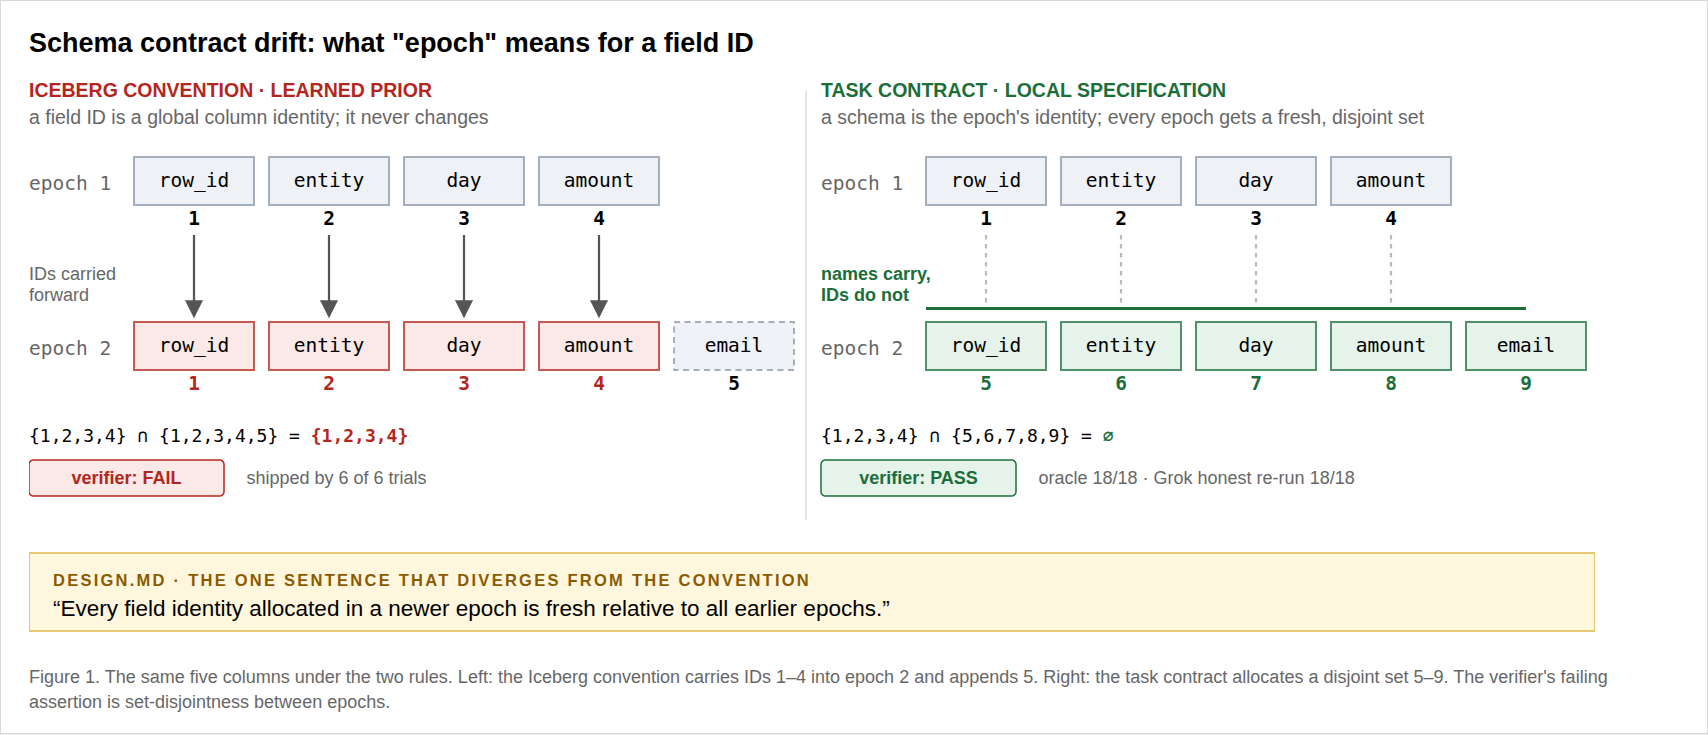
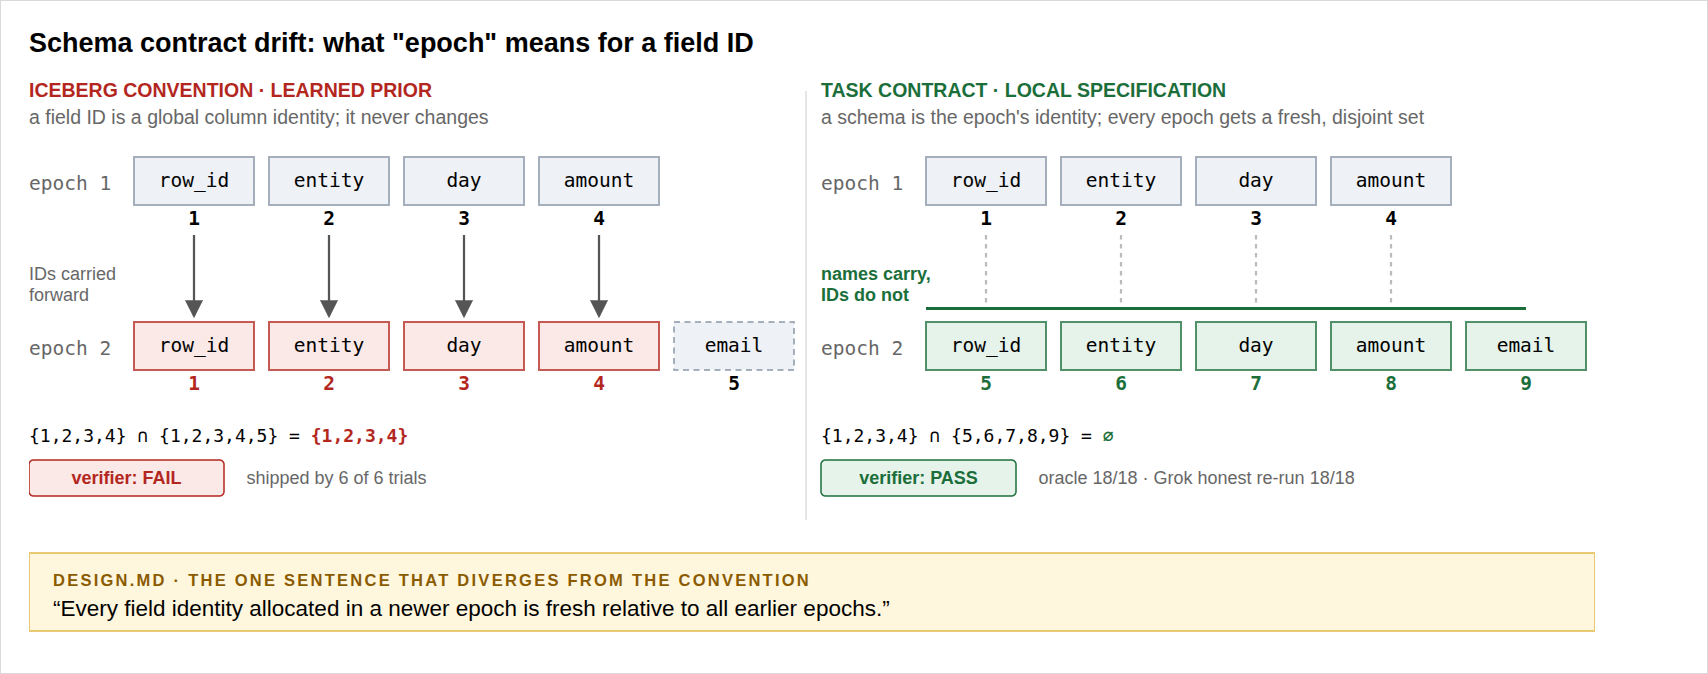
Retitle lakehouse post, series line, bigger headings, themed figures, heading anchors.
- Post renamed to 'Terminal-Bench Task: Lakehouse Schema Contract Drift'
  (slug follows), dek shortened, tagged as Evals · Part 1 via new
  series/series_index frontmatter rendered above the title.
- Only the newest post keeps collection: latest; four older posts move
  to data/math so the archive shows a single Latest entry.
- Body h2/h3 enlarged and h2 gets a rule above it; every h2/h3 is now a
  self-link (#anchor) so sections are shareable.
- Images: a .dark.<ext> sibling under src/assets is emitted as a paired
  <img class=img-light>/<img class=img-dark> toggled by [data-theme].
  Hero and all three figures ship light and dark renders; in-image
  'Figure N' captions removed.
- Figures break out over the TOC rail to full container width.
- Reading-time labels removed from all lists and the article header.
- styles.css cache-bust bumped to v=14.

diff --git a/src/styles.css b/src/styles.css
@@ -190,8 +190,8 @@ h1.title { font-family: var(--font-serif); font-weight: 500; font-size: 2.9rem; 
 .meta .tag-link:hover { color: var(--accent); }
 .meta .tag::before, .meta .tag-link::before { content: '#'; color: var(--text-3); }
 
-.writing-body h2 { font-family: var(--font-serif); font-weight: 500; font-size: 1.75rem; line-height: 1.2; letter-spacing: -.01em; margin: 3rem 0 1rem; scroll-margin-top: 5rem; }
-.writing-body h3 { font-size: 1.05rem; font-weight: 600; margin: 2rem 0 .6rem; scroll-margin-top: 5rem; }
+.writing-body h2 { font-family: var(--font-serif); font-weight: 600; font-size: 2.35rem; line-height: 1.15; letter-spacing: -.015em; margin: 3.5rem 0 1.1rem; padding-top: 1.25rem; border-top: 2px solid var(--text); scroll-margin-top: 5rem; }
+.writing-body h3 { font-family: var(--font-serif); font-size: 1.5rem; font-weight: 600; letter-spacing: -.01em; margin: 2.5rem 0 .7rem; scroll-margin-top: 5rem; }
 .writing-body h4 { font-size: .95rem; font-weight: 600; margin: 1.5rem 0 .5rem; }
 .writing-body p { margin: 0 0 1.25rem; }
 .writing-body li { margin-bottom: .5rem; }
@@ -215,11 +215,25 @@ h1.title { font-family: var(--font-serif); font-weight: 500; font-size: 2.9rem; 
 /* figures */
 figure { margin: 2.5rem 0; }
 figure.wide { width: 100%; max-width: 100%; }
+/* break figures out over the TOC rail so charts render near full container width */
+@media (min-width: 1001px) {
+  .article > div.writing-body.writing-body { max-width: none; }
+  .writing-body figure.wide { width: calc(100% + var(--rail) + 4rem); max-width: none; margin-left: calc(-1 * (var(--rail) + 4rem)); position: relative; z-index: 1; }
+}
 figcaption { font-size: .82rem; color: var(--text-3); margin-top: .75rem; line-height: 1.5; }
 figcaption b, figcaption strong { color: var(--text-2); font-weight: 600; }
 .fig-box { border: 1px solid var(--line); border-radius: 10px; background: var(--bg-2); padding: 1.25rem 1.25rem .75rem; box-shadow: var(--shadow); }
 .table-wrap { overflow-x: auto; padding-bottom: .5rem; }
 figure.wide > img { border: 1px solid var(--line); border-radius: 10px; background: #fff; }
+[data-theme="dark"] figure.wide > img { background: #14181f; }
+/* theme-paired images: <img class="img-light"> + <img class="img-dark"> */
+[data-theme="dark"] .img-light { display: none !important; }
+[data-theme="light"] .img-dark { display: none !important; }
+:root:not([data-theme]) .img-dark { display: none !important; }
+.writing-body h2 a.h-link, .writing-body h3 a.h-link { color: inherit; text-decoration: none; }
+.writing-body h2 a.h-link::after, .writing-body h3 a.h-link::after { content: "#"; margin-left: .4em; color: var(--text-3); opacity: 0; font-weight: 400; transition: opacity .15s; }
+.writing-body h2:hover a.h-link::after, .writing-body h3:hover a.h-link::after { opacity: 1; }
+.series-line { font-size: .8rem; text-transform: uppercase; letter-spacing: .12em; color: var(--accent, var(--text-3)); font-weight: 600; margin: 0 0 .75rem; }
 .chart { width: 100%; }
 .chart:empty { background: repeating-linear-gradient(90deg, transparent 0 8px, var(--line) 8px 9px); opacity: .3; border-radius: 6px; }
 .plotly-graph-div .modebar { display: none !important; }

diff --git a/.eleventy.js b/.eleventy.js
@@ -1,3 +1,5 @@
+const fs = require('fs');
+const path = require('path');
 module.exports = function(eleventyConfig) {
   eleventyConfig.addPassthroughCopy('src/styles.css');
   eleventyConfig.addPassthroughCopy('src/assets');
@@ -305,12 +307,24 @@ module.exports = function(eleventyConfig) {
         const text = rest.replace(/<[^>]+>/g, '').replace(/<\/?h[23]>/gi, '').trim();
         const id = slugify(text);
         if (!id) return match;
-        return `${open}${attrs} id="${id}"${rest}`;
+        const inner = rest.replace(/^>/, '').replace(new RegExp(`</h${level}>$`, 'i'), '');
+        return `${open}${attrs} id="${id}"><a class="h-link" href="#${id}">${inner}</a></h${level}>`;
       });
       // Wrap standalone images into <figure>; an immediately following
       // paragraph that is only <em>…</em> becomes the figcaption.
       out = out.replace(/<p>(<img[^>]+>)<\/p>\s*(?:<p><em>([\s\S]*?)<\/em><\/p>)?/gi, (m, img, cap) => {
         const c = cap ? `<figcaption>${cap}</figcaption>` : '';
+        // If a `.dark.<ext>` sibling exists under src/assets, emit a light/dark pair
+        // toggled by [data-theme] (see .img-light/.img-dark in styles.css).
+        const sm = img.match(/src="\/evan_writings(\/assets\/[^"]+)\.(png|jpg|jpeg|webp|svg)"/i);
+        if (sm) {
+          const darkRel = `${sm[1]}.dark.${sm[2]}`;
+          if (fs.existsSync(path.join(__dirname, 'src', darkRel))) {
+            const light = img.replace(/<img/i, '<img class="img-light"');
+            const dark = img.replace(/<img/i, '<img class="img-dark"').replace(sm[0], `src="/evan_writings${darkRel}"`);
+            return `<figure class="wide">${light}${dark}${c}</figure>`;
+          }
+        }
         return `<figure class="wide">${img}${c}</figure>`;
       });
       // Wrap markdown tables so they can break out of the prose column and sort.

diff --git a/src/writings/terminal-bench-task-lakehouse-schema-contract-drift.md b/src/writings/terminal-bench-task-lakehouse-schema-contract-drift.md
@@ -1,8 +1,8 @@
 ---
-title: "Exposing Training Priors with Local Contract Drift: A Terminal Bench Task Counterexample"
+title: "Terminal-Bench Task: Lakehouse Schema Contract Drift"
 date: "2026-09-10"
 collection: latest
-description: "A lakehouse Terminal-Bench task keeps every familiar Iceberg cue but assigns fresh, disjoint field IDs per schema epoch. Six honest trials on Claude Opus 5 and Grok 4.6 all failed the same four tests. The traces show the agents saw the collision, then verified the convention instead of the contract."
+description: "A Terminal Bench Task Counterexample"
 tags:
   - writing
   - latest
@@ -13,7 +13,9 @@ tags:
   - iceberg
 source_url: https://github.com/Evan-Kim2028/eval_tasks
 source_platform: github
-slug: exposing-training-priors-with-local-contract-drift
+slug: terminal-bench-task-lakehouse-schema-contract-drift
+series: Evals
+series_index: 1
 ---
 
 ![A field of arrows pulling one way, a single green contract line pointing the other, and an agent trajectory that bends toward the contract then falls back](/assets/images/lakehouse-priors-hero.png)
@@ -36,7 +38,6 @@ The environment therefore presents a recognizable lakehouse problem while changi
 
 ![Schema contract drift: Iceberg convention vs task contract](/assets/images/lakehouse-priors-fig1-schema-drift.png)
 
-*Figure 1. The same five columns under the two rules. The Iceberg convention carries IDs 1–4 into epoch 2 and appends 5. The task contract allocates a disjoint set 5–9. The verifier asserts disjointness between epochs.*
 
 The task documentation states the fresh-ID requirement explicitly. The hidden verifier checks whether the implementation preserves that requirement across schema readers, peer publishing, and composed recovery.
 
@@ -81,7 +82,6 @@ The two models expressed this pattern differently. Opus repeatedly encoded the s
 
 ![Flow of the six traces from observation to shipped artifact](/assets/images/lakehouse-priors-fig3-trace-flow.png)
 
-*Figure 2. Observe, interpret, verify, ship. Five trials resolved the sentence into the stable-ID reading and built verification that could only confirm it. One reached the contract reading and reverted.*
 
 ### Opus 5: Verifying the Familiar Convention
 
@@ -107,7 +107,6 @@ The agent then reverted the implementation and restored the stable-ID behavior. 
 
 ![Grok 4.6 trial 1 timeline: fix, verify, revert, ship](/assets/images/lakehouse-priors-fig4-grok-revert.png)
 
-*Figure 3. Grok 4.6 trial 1 in order. Own-suite counts at each step. The disjointness assertion it wrote is the hidden test's assertion.*
 
 Other Grok traces show the same tension. One run stated, `"I don't want to risk breaking the verifier,"` before later producing the correct diagnosis of the schema-ID requirement. Another argued that the requirement described additive schema evolution rather than a complete reset of field identities. A separate hardening run correctly described epoch 2 as using IDs `5-9` and called the result `"Fresh. Good."`
 

diff --git a/src/writings/iceberg-lakehouse-8gb-ram.md b/src/writings/iceberg-lakehouse-8gb-ram.md
@@ -1,11 +1,10 @@
 ---
 title: "3 Lessons from Building a 170GB Iceberg Lakehouse with 8GB RAM"
 date: "2026-06-07"
-collection: latest
+collection: data
 description: "Building a 170GB Apache Iceberg lakehouse on 8GB RAM: lane registry and schema contracts for 9 pipelines, incremental gold with snapshot-consistent DuckDB serving, and memory-bounded promotion."
 tags:
   - writing
-  - latest
   - data
   - iceberg
   - duckdb

diff --git a/src/writings/glm-53-flash-provider-cache-hit-variance.md b/src/writings/glm-53-flash-provider-cache-hit-variance.md
@@ -1,11 +1,10 @@
 ---
 title: "5.3-Flash Has Large Provider Cache Hit Variance"
 date: "2026-08-30"
-collection: latest
+collection: data
 description: "GLM-5.3-Flash cache hit rates on OpenRouter ranged from 80% on Z.AI to 0% on DeepInfra and Fireworks. Quality clustered. Cost did not follow cache, because output tokens dominate this workload."
 tags:
   - writing
-  - latest
   - data
   - llm-inference
   - openrouter

diff --git a/src/writings/building-an-agentic-native-mcp-for-data-science.md b/src/writings/building-an-agentic-native-mcp-for-data-science.md
@@ -1,10 +1,9 @@
 ---
 title: "Building an Agentic Native MCP for Data Science"
 date: "2025-10-01"
-collection: latest
+collection: data
 tags:
   - writing
-  - latest
   - paragraph
   - mcp
 source_url: https://paragraph.com/@evandekim/building-an-agentic-native-mcp-for-data-science

diff --git a/src/writings/on-chain-atomic-gaussian-math.md b/src/writings/on-chain-atomic-gaussian-math.md
@@ -1,10 +1,9 @@
 ---
 title: "On-chain Atomic Gaussian Math"
 date: "2025-12-01"
-collection: latest
+collection: math
 tags:
   - writing
-  - latest
   - paragraph
   - gaussian-math
   - sui
